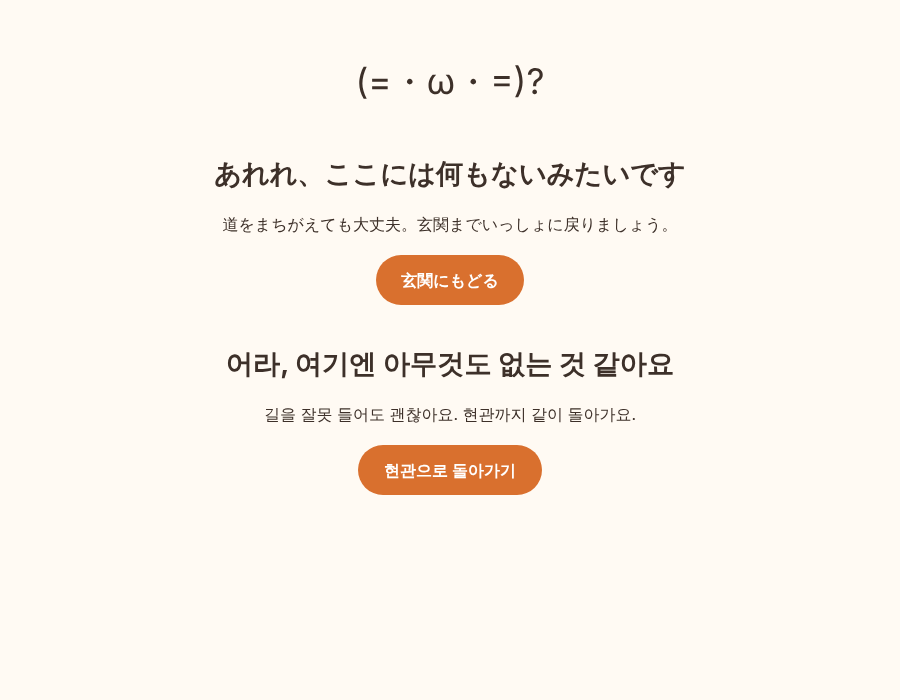
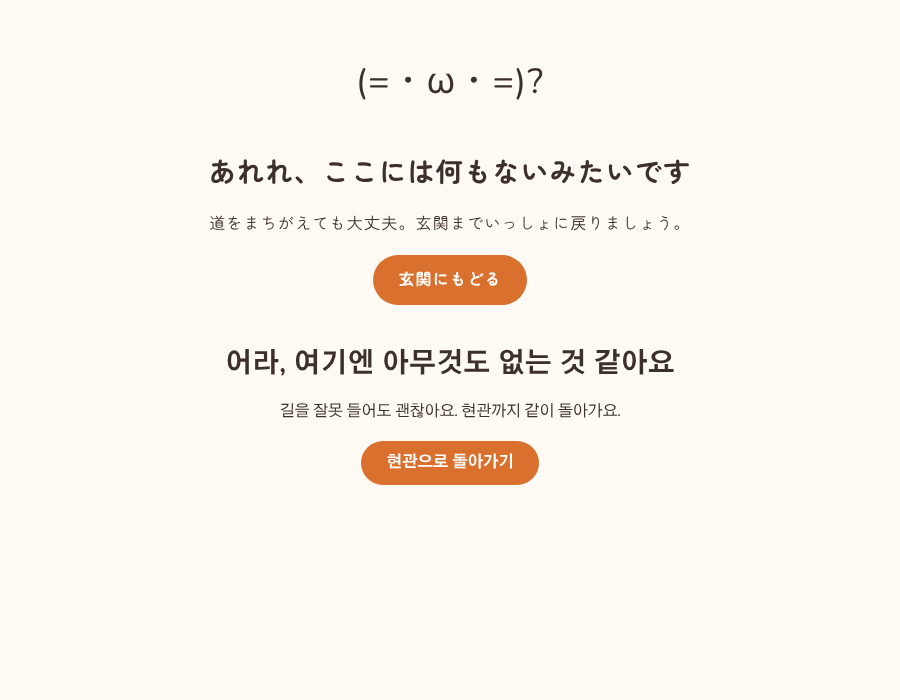
404: fonts and letter-spacing per language; share font imports
Claude-Session: https://claude.ai/code/session_01EUxHZau6UP3xLAsGqKBsmf

diff --git a/src/styles/about.css b/src/styles/about.css
@@ -101,3 +101,8 @@ code { font-size: 0.92em; background: var(--accent-soft); padding: 0.05em 0.4em;
    さっと目を通すところ(タブ・カードの説明・リスト・フッター)は 0.05em。 */
 html:lang(ja) body { letter-spacing: 0.075em; }
 html:lang(ja) .tabs, html:lang(ja) .cards span, html:lang(ja) .facts, html:lang(ja) footer, html:lang(ja) .bar { letter-spacing: 0.05em; }
+
+/* 404 は、日本語と韓国語を 1 枚にならべるので、区切りごとに言語の字間を当てる。 */
+.lost section:lang(ja) { letter-spacing: 0.075em; }
+.lost section:lang(ko) { letter-spacing: -0.03em; line-height: 1.6; }
+.lost section:lang(ko) h1 { letter-spacing: normal; }

diff --git a/src/layouts/fonts.ts b/src/layouts/fonts.ts
@@ -1,0 +1,8 @@
+// SPDX-License-Identifier: AGPL-3.0-or-later
+// フォントは、ここだけで読み込む(ふつうのページと 404 で共有)。
+import '@fontsource/nunito/latin-400.css';
+import '@fontsource/nunito/latin-700.css';
+import '@fontsource/zen-maru-gothic/japanese-400.css';
+import '@fontsource/zen-maru-gothic/japanese-700.css';
+import '@fontsource/gothic-a1/korean-400.css';
+import '@fontsource/gothic-a1/korean-700.css';
